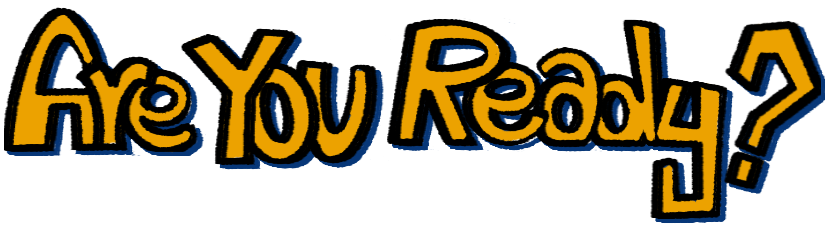
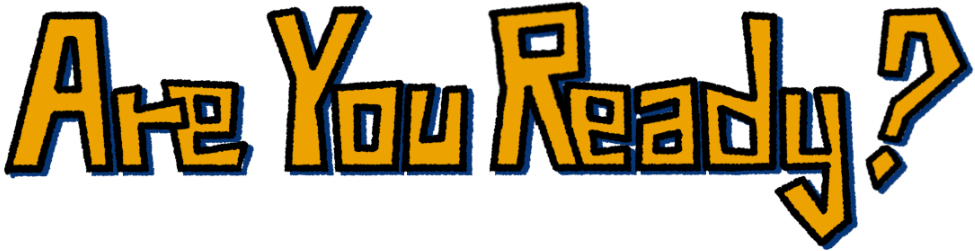
이미지 수정, 유어턴 이미지 추가

diff --git a/gamejam_3team/Assets/02.Scripts/IngameScene.cs b/gamejam_3team/Assets/02.Scripts/IngameScene.cs
@@ -17,7 +17,7 @@ public class IngameScene : MonoBehaviour
     Image[] failImages;
     Image[] npcImages;
     Image backgroundFailImage;
-    Text yourTurnText;
+    Image yourTurnText;
     Image ruReadyImage;
     Image goImage;
 
@@ -145,7 +145,7 @@ public class IngameScene : MonoBehaviour
         foreach (var i in failImages) i.enabled = false;
 
         var textObject = GameObject.Find("MessageObject");
-        yourTurnText = textObject.GetComponentInChildren<Text>();
+        yourTurnText = textObject.GetComponentInChildren<Image>(true);
         yourTurnText.enabled = false;
         
         var plantImagesObj = GameObject.Find("background-fail");
@@ -400,7 +400,7 @@ public class IngameScene : MonoBehaviour
             // your turn!
             yourTurnText.enabled = true;
             yield return waitForSeconds3;
-
+            yourTurnText.enabled = false;
             foreach (var note in combo)
             {
                 yield return new WaitUntil(CheckCode);
